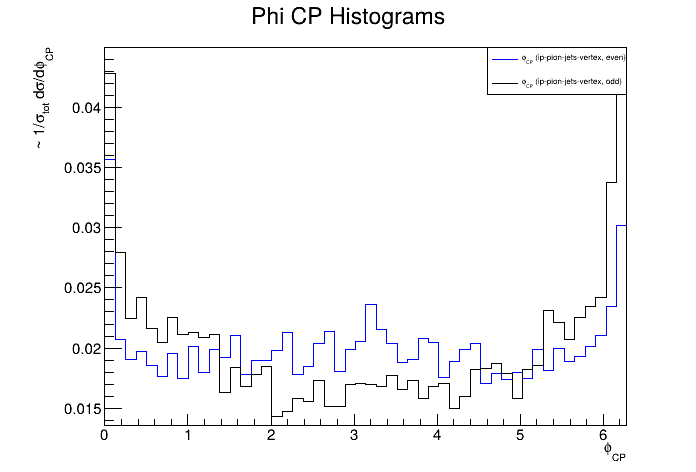
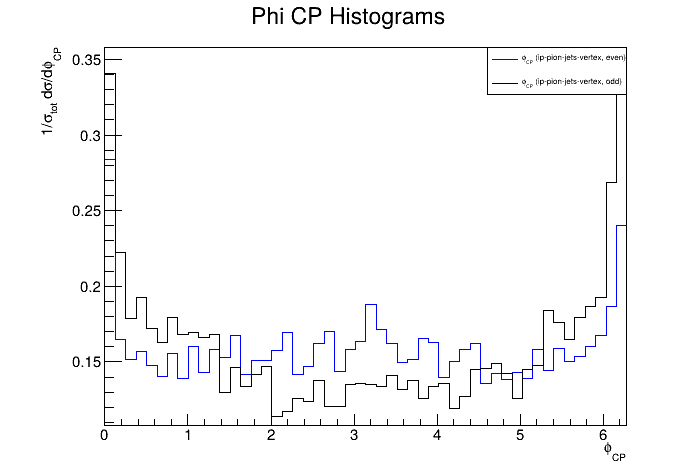
first usable fully reconstructed hist

diff --git a/stuff_in_the_wrong_dir/script.py b/stuff_in_the_wrong_dir/script.py
@@ -10,19 +10,23 @@ histograms = {
     # "#phi_{CP} (neutrino-pion, odd)": file_odd.Get("phi_CP_neutrino_pi"),
     # "#phi_{CP} (ip-pion, even)": file_even.Get("phi_CP_pion"),
     # "#phi_{CP} (ip-pion, odd)": file_odd.Get("phi_CP_pion"),
-    # "#phi_{CP} (ip-pion-jets, even)": file_even.Get("phi_CP_pion_jet"),
-    # "#phi_{CP} (ip-pion-jets, odd)": file_odd.Get("phi_CP_pion_jet"),
-    "#phi_{CP} (ip-pion-jets-vertex, even)": file_even.Get("phi_CP_pion_jet_reco"),
-    "#phi_{CP} (ip-pion-jets-vertex, odd)": file_odd.Get("phi_CP_pion_jet_reco"),
+    "#phi_{CP} (ip-pion-jets, even)": file_even.Get("phi_CP_pion_jet"),
+    "#phi_{CP} (ip-pion-jets, odd)": file_odd.Get("phi_CP_pion_jet"),
+    # "#phi_{CP} (ip-pion-jets-vertex, even)": file_even.Get("phi_CP_pion_jet_reco"),
+    # "#phi_{CP} (ip-pion-jets-vertex, odd)": file_odd.Get("phi_CP_pion_jet_reco"),
 }
+
+BINS = 50
+DPHI = 2 * ROOT.TMath.Pi() / BINS
 
 for name, hist in histograms.items():
     integral = hist.Integral()
-    print(integral)
     if integral == 0:
         print(f"Warning: Histogram '{name}' has zero integral, skipping normalization.")
         continue
-    hist.Scale(1.0 / integral)  # Normalization
+    else:
+        print(f"Normalizing histogram '{name}' with integral {integral:.0f}.")
+    hist.Scale(1 / (integral * DPHI))  # Normalization
     hist.SetLineWidth(1)
     hist.SetStats(0)
 
@@ -32,7 +36,20 @@ canvas.SetLeftMargin(0.15)
 global_max_y = max(map(lambda h: h.GetMaximum(), histograms.values()))
 global_min_y = min(map(lambda h: h.GetMinimum(), histograms.values()))
 
-COLORS = [ROOT.kBlue, ROOT.kBlack, ROOT.kRed, ROOT.kGreen, ROOT.kMagenta, ROOT.kCyan]
+print(f"Global max y: {global_max_y}, Global min y: {global_min_y}")
+
+COLORS = [
+    ROOT.kBlue,
+    ROOT.kBlack,
+    ROOT.kRed,
+    ROOT.kGreen,
+    ROOT.kMagenta,
+    ROOT.kCyan,
+    ROOT.kOrange,
+    ROOT.kViolet,
+    ROOT.kPink,
+    ROOT.kGray,
+]
 
 for i, hist in enumerate(histograms.values()):
     if i == 0:
@@ -40,7 +57,7 @@ for i, hist in enumerate(histograms.values()):
         hist.SetMinimum(global_min_y * 0.95)
         hist.SetTitle("Phi CP Histograms")
         hist.GetXaxis().SetTitle("#phi_{CP}")
-        hist.GetYaxis().SetTitle("~ 1/#sigma_{tot} d#sigma/d#phi_{CP}")
+        hist.GetYaxis().SetTitle("1/#sigma_{tot} d#sigma/d#phi_{CP}")
     hist.SetLineColor(COLORS[i])
     hist.Draw("HIST" if i == 0 else "HIST SAME")
 

diff --git a/stuff_in_the_wrong_dir/count_events.py b/stuff_in_the_wrong_dir/count_events.py
@@ -1,0 +1,29 @@
+import ROOT
+import os
+
+# Directory containing ROOT files
+root_dir = "../samples/cp-odd/"
+
+# Name of the TTree to count events in
+tree_name = "CollectionTree"
+
+total_events = 0
+
+for filename in os.listdir(root_dir):
+    if filename.endswith(".root.1"):
+        file_path = os.path.join(root_dir, filename)
+        f = ROOT.TFile.Open(file_path)
+        if not f or f.IsZombie():
+            print(f"Could not open {file_path}")
+            continue
+        tree = f.Get(tree_name)
+        if not tree:
+            print(f"No tree named '{tree_name}' in {file_path}")
+            f.Close()
+            continue
+        n_events = tree.GetEntries()
+        print(f"{filename}: {n_events} events")
+        total_events += n_events
+        f.Close()
+
+print(f"Total events in directory '{root_dir}': {total_events}")

diff --git a/source/MyAnalysis/MyAnalysis/Utils.h b/source/MyAnalysis/MyAnalysis/Utils.h
@@ -1,0 +1,21 @@
+#ifndef MyAnalysis_Utils_H
+#define MyAnalysis_Utils_H
+
+#include "MyAnalysis/Observables.h"
+#include "xAODTau/TauTrack.h"
+#include "xAODTracking/TrackParticle.h"
+#include <TLorentzVector.h>
+#include <TVector3.h>
+#include <cmath>
+
+TVector3 constructImpactParameterFromTauTrack(const xAOD::TrackParticle *track,
+                                              TVector3 primaryVtx) {
+  TVector3 supportVtx = TVector3(track->d0() * cos(track->phi()),
+                                 track->d0() * sin(track->phi()), track->z0());
+  TVector3 direction = track->p4().Vect();
+  TVector3 result =
+      getPerpendicularComponent(supportVtx - primaryVtx, direction);
+  return supportVtx - primaryVtx;
+}
+
+#endif

diff --git a/source/MyAnalysis/MyAnalysis/Observables.h b/source/MyAnalysis/MyAnalysis/Observables.h
@@ -3,6 +3,8 @@
 
 #include <TLorentzVector.h>
 
+TVector3 getPerpendicularComponent(const TVector3 &vec1, const TVector3 &vec2);
+
 double phiCP_Pion_Tau(TLorentzVector higgsP4, TLorentzVector tauPosP4,
                       TLorentzVector tauNegP4, TLorentzVector piPosP4,
                       TLorentzVector piNegP4);
